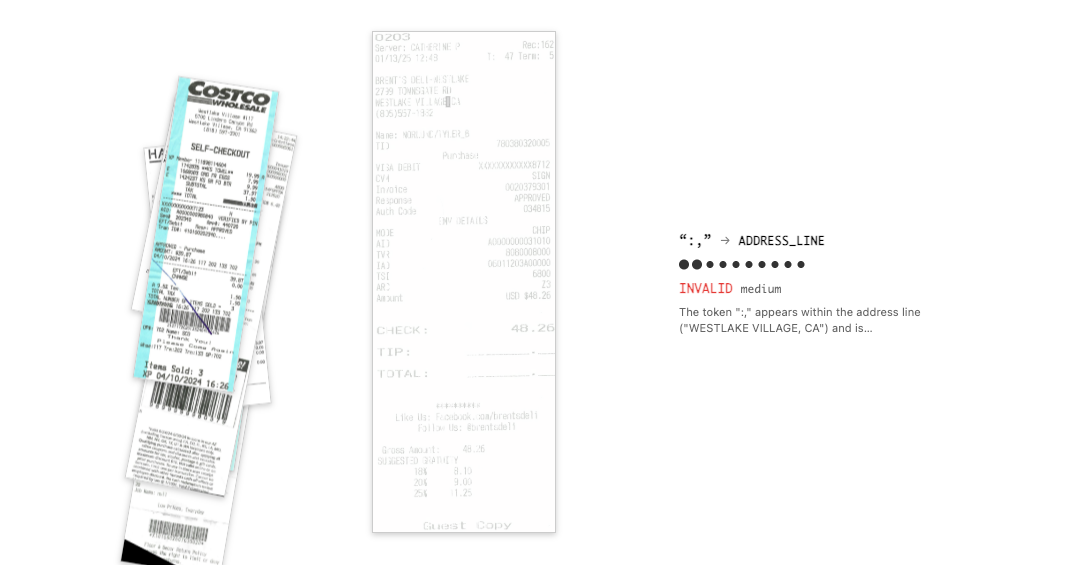
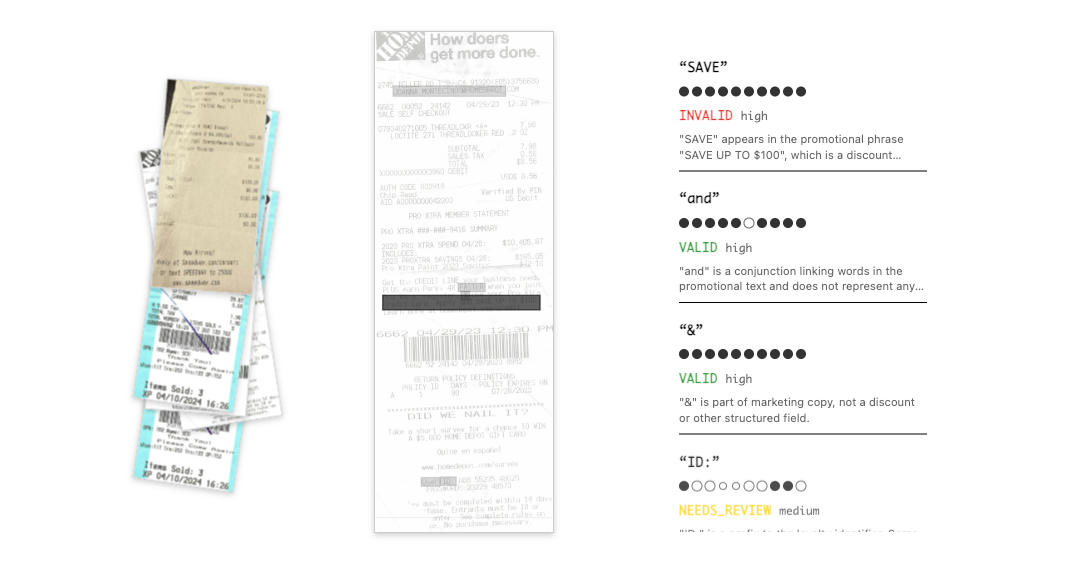
fix: remove label coloring from evidence cards, use neutral tag style
Label colors (yellow for PRODUCT_NAME, green for SUBTOTAL) conflicted
with decision colors and made yellow text invisible on white backgrounds.
The decision (VALID/INVALID/NEEDS_REVIEW) is now the only colored element
in the card. Labels render as neutral bordered tags.

diff --git a/portfolio/components/ui/Figures/BetweenReceiptVisualization/index.tsx b/portfolio/components/ui/Figures/BetweenReceiptVisualization/index.tsx
@@ -298,7 +298,6 @@ interface EvidenceCardProps {
 const EvidenceCard: React.FC<EvidenceCardProps> = ({ decision, word }) => {
   const { issue, evidence, llm_review } = decision;
   const displayLabel = issue.current_label;
-  const labelColor = displayLabel ? (LABEL_COLORS[displayLabel] || "var(--text-color)") : "var(--text-color)";
   const decisionColor = DECISION_COLORS[llm_review.decision] || "var(--text-color)";
 
   const showLabelChange =
@@ -309,14 +308,14 @@ const EvidenceCard: React.FC<EvidenceCardProps> = ({ decision, word }) => {
 
   return (
     <div className={styles.evidenceCard}>
-      {/* Word + suggested label */}
+      {/* Word + current label */}
       <div className={styles.cardHeader}>
         <span className={styles.cardWord}>&ldquo;{issue.word_text}&rdquo;</span>
-        <span className={styles.cardArrow}>&rarr;</span>
         {displayLabel && (
-          <span className={styles.cardLabel} style={{ color: labelColor }}>
-            {displayLabel}
-          </span>
+          <>
+            <span className={styles.cardArrow}>&rarr;</span>
+            <span className={styles.cardLabel}>{displayLabel}</span>
+          </>
         )}
       </div>
 
@@ -338,12 +337,7 @@ const EvidenceCard: React.FC<EvidenceCardProps> = ({ decision, word }) => {
         <div className={styles.labelChange}>
           <span className={styles.labelBefore}>{issue.current_label}</span>
           <span className={styles.cardArrow}>&rarr;</span>
-          <span
-            className={styles.labelAfter}
-            style={{ color: LABEL_COLORS[llm_review.suggested_label!] || "var(--text-color)" }}
-          >
-            {llm_review.suggested_label}
-          </span>
+          <span className={styles.labelAfter}>{llm_review.suggested_label}</span>
         </div>
       )}
 

diff --git a/portfolio/components/ui/Figures/BetweenReceiptVisualization/BetweenReceiptVisualization.module.css b/portfolio/components/ui/Figures/BetweenReceiptVisualization/BetweenReceiptVisualization.module.css
@@ -191,11 +191,11 @@
   border-bottom: none;
 }
 
-/* Card header: word text + suggested label */
+/* Card header: word text + current label */
 .cardHeader {
   display: flex;
   align-items: baseline;
-  gap: 0.5rem;
+  gap: 0.4rem;
 }
 
 .cardWord {
@@ -206,15 +206,22 @@
 }
 
 .cardArrow {
-  font-size: 0.75rem;
+  font-size: 0.65rem;
   color: var(--text-color);
-  opacity: 0.5;
+  opacity: 0.3;
 }
 
 .cardLabel {
-  font-size: 0.75rem;
-  font-weight: 600;
+  font-size: 0.65rem;
+  font-weight: 500;
   font-family: "Monaco", "Menlo", "Consolas", monospace;
+  color: var(--text-color);
+  opacity: 0.55;
+  border: 1px solid;
+  border-color: rgba(var(--text-color-rgb, 0, 0, 0), 0.2);
+  border-radius: 3px;
+  padding: 1px 5px;
+  letter-spacing: 0.02em;
 }
 
 /* Evidence dots row */
@@ -259,12 +266,13 @@
 
 .labelBefore {
   color: var(--text-color);
-  opacity: 0.5;
+  opacity: 0.4;
   text-decoration: line-through;
 }
 
 .labelAfter {
   font-weight: 600;
+  color: var(--text-color);
 }
 
 /* Reasoning text */
